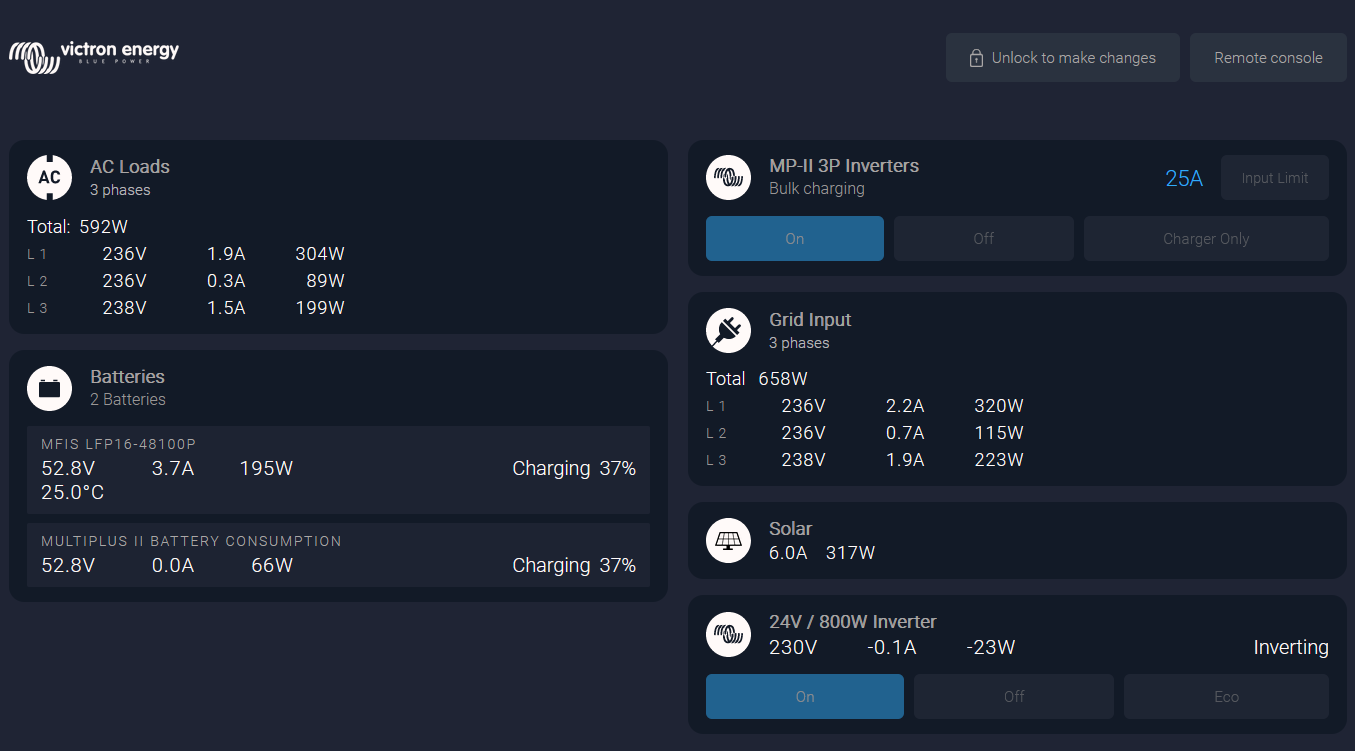
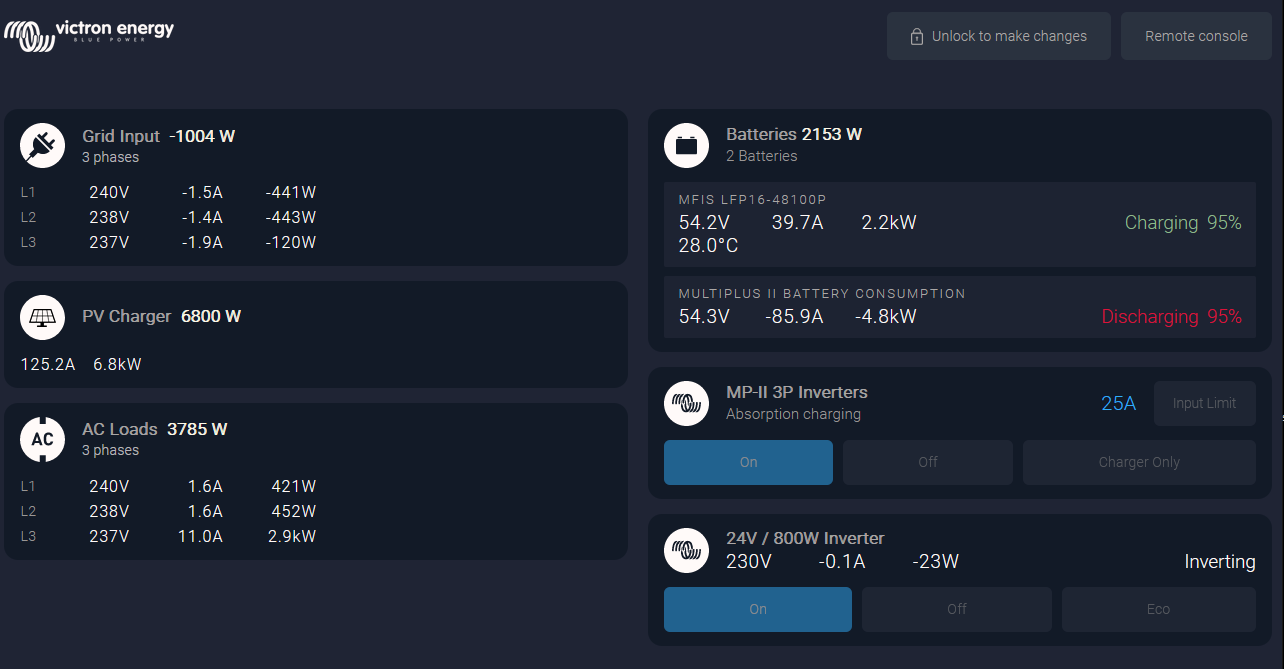
refactored phase totals into a new ListViewWithTotals component and expanded its use to all metrics view cards where appropriate, updated layout to more closely resemble how many of the other Victron UX's are laid out (and some naming changes as well), added colors for battery charge statuses (#2)

diff --git a/src/app/MarineApp/components/ActiveSource/ActiveSource.tsx b/src/app/MarineApp/components/ActiveSource/ActiveSource.tsx
@@ -1,11 +1,11 @@
 import React from "react"
 
-import { useActiveSource } from "@elninotech/mfd-modules"
+import { useActiveInValues, useActiveSource } from "@elninotech/mfd-modules"
 
 import ActiveInValues from "./ActiveInValues"
 import HeaderView from "../HeaderView/HeaderView"
 import ColumnContainer from "../ColumnContainer"
-import { ListView } from "../ListView"
+import { ListViewWithTotals } from "../ListViewWithTotals"
 import MetricValues from "../MetricValues"
 
 import { AC_SOURCE_TYPE } from "../../../utils/constants"
@@ -45,18 +45,28 @@ type ActiveSourceProps = {
   phases: number
   source: number
   active: boolean
+  power: number
 }
 
-const ActiveSource = ({ source, active, phases }: ActiveSourceProps) => {
+const ActiveSource = ({ source, active, phases, power }: ActiveSourceProps) => {
   const icon = activeSourceIcon[source]
   const title = activeSourceTitle[source] || "unknown"
   const subTitle = getSourceSubtitle(active, phases)
+
   return (
     <div className="metric metric__active-source">
       {phases > 1 ? (
-        <ListView icon={icon} title={<Translate value={`widgets.${title}`} />} subTitle={subTitle} child={true}>
-          {active && <ActiveInValues phases={phases} />}
-        </ListView>
+        <ColumnContainer>
+          <ListViewWithTotals
+            icon={icon}
+            title={<Translate value={`widgets.${title}`} />}
+            totals={power}
+            subTitle={subTitle}
+            child={true}
+          >
+            {active && <ActiveInValues phases={phases} />}
+          </ListViewWithTotals>
+        </ColumnContainer>
       ) : (
         <>
           <HeaderView icon={icon} title={translate(`widgets.${title}`)} subTitle={subTitle} child={true}>
@@ -74,6 +84,8 @@ const ActiveSource = ({ source, active, phases }: ActiveSourceProps) => {
 
 const ActiveSourceList = observer(() => {
   const { activeInput, phases, settings } = useActiveSource()
+  const { power } = useActiveInValues()
+  let phaseTotals = power.reduce((a, b) => a + b, 0)
 
   const visible = !!settings.some((item) => [AC_SOURCE_TYPE.GRID, AC_SOURCE_TYPE.SHORE].includes(item))
 
@@ -85,7 +97,7 @@ const ActiveSourceList = observer(() => {
         (source, i) =>
           [AC_SOURCE_TYPE.GRID, AC_SOURCE_TYPE.SHORE].includes(source) && (
             <ColumnContainer key={i}>
-              <ActiveSource source={source} phases={phases} active={activeInput === i} />
+              <ActiveSource source={source} phases={phases} active={activeInput === i} power={phaseTotals} />
             </ColumnContainer>
           )
       )}

diff --git a/src/app/MarineApp/components/AcLoads/AcLoads.tsx b/src/app/MarineApp/components/AcLoads/AcLoads.tsx
@@ -4,7 +4,7 @@ import HeaderView from "../HeaderView"
 import ColumnContainer from "../ColumnContainer"
 import MetricValues from "../MetricValues"
 import NumericValue from "../../../components/NumericValue"
-import { ListView, ListRow } from "../ListView"
+import { ListViewWithTotals, ListRow } from "../ListViewWithTotals"
 
 import AcIcon from "../../images/icons/ac.svg"
 import { translate, Translate } from "react-i18nify"
@@ -17,31 +17,29 @@ const AcLoads = observer(() => {
   const showAsList = phases > 1
 
   const isVisible = !!(current && voltage && power && phases)
+  let phaseTotals = power.reduce((a, b) => a + b, 0)
 
   useVisibilityNotifier({ widgetName: WIDGET_TYPES.AC_LOADS, visible: isVisible })
 
   if (isVisible) {
     return showAsList ? (
       <ColumnContainer>
-        <ListView
+        <ListViewWithTotals
           icon={AcIcon}
           title={<Translate value="widgets.acLoads" />}
+          totals={phaseTotals}
           subTitle={<Translate value="common.nrOfPhases" phases={phases} />}
           child={false}
         >
-          <MetricValues>
-            {translate("common.total")}: &nbsp;
-            <NumericValue value={power[0] + power[1] + power[2]} unit={"W"} />
-          </MetricValues>
           {voltage.slice(0, phases).map((v, i) => (
             <ListRow key={i}>
-              <span className="value value__phase">L {i + 1}</span>
+              <span className="value value__phase">L{i + 1}</span>
               <NumericValue value={v} unit="V" />
               <NumericValue value={current[i]} unit="A" precision={1} />
               <NumericValue value={power[i]} unit={"W"} />
             </ListRow>
           ))}
-        </ListView>
+        </ListViewWithTotals>
       </ColumnContainer>
     ) : (
       <ColumnContainer>

diff --git a/src/app/MarineApp/components/Solar/Solar.tsx b/src/app/MarineApp/components/Solar/Solar.tsx
@@ -1,6 +1,5 @@
 import React from "react"
 
-import HeaderView from "../HeaderView/HeaderView"
 import ColumnContainer from "../ColumnContainer"
 import MetricValues from "../MetricValues"
 import NumericValue from "../../../components/NumericValue"
@@ -11,6 +10,7 @@ import { observer } from "mobx-react"
 import { useVisibilityNotifier } from "app/MarineApp/modules"
 import { WIDGET_TYPES } from "app/MarineApp/utils/constants"
 import { translate } from "react-i18nify"
+import { ListViewWithTotals, ListRow } from "../ListViewWithTotals"
 
 const Solar = observer(() => {
   const { current, power } = usePvCharger()
@@ -21,12 +21,20 @@ const Solar = observer(() => {
   if (visible) {
     return (
       <ColumnContainer>
-        <HeaderView icon={SolarIcon} title={translate("widgets.solar")}>
-          <MetricValues>
-            <NumericValue value={current} unit="A" precision={1} />
-            <NumericValue value={power} unit="W" />
-          </MetricValues>
-        </HeaderView>
+        <ListViewWithTotals
+          icon={SolarIcon}
+          title={translate("widgets.solar")}
+          totals={power}
+          subTitle={false}
+          child={false}
+        >
+          <ListRow>
+            <MetricValues>
+              <NumericValue value={current} unit="A" precision={1} />
+              <NumericValue value={power} unit={"W"} />
+            </MetricValues>
+          </ListRow>
+        </ListViewWithTotals>
       </ColumnContainer>
     )
   } else {

diff --git a/src/app/MarineApp/components/ListViewWithTotals/ListViewWithTotals.tsx b/src/app/MarineApp/components/ListViewWithTotals/ListViewWithTotals.tsx
@@ -1,0 +1,36 @@
+import React from "react"
+import classnames from "classnames"
+
+import "./ListViewWithTotals.scss"
+
+type ListViewWithTotalsProps = {
+  child: boolean
+  icon: string
+  title: string | React.ReactNode
+  totals: number
+  subTitle: string | React.ReactNode
+}
+
+export const ListViewWithTotals: React.FunctionComponent<ListViewWithTotalsProps> = ({
+  child,
+  icon,
+  title,
+  totals,
+  subTitle,
+  children,
+}) => (
+  <div className={classnames({ metric: !child }, "list-view")}>
+    <div className="list-view__header">
+      <img src={icon} className="metric__icon" alt={"List View Icon"} />
+      <div className="metric__value-container">
+        <p className="text text--title text--bold">
+          {title} <span className="text text--title text--bold text--power--totals">{totals.toFixed()} W</span>
+        </p>
+        {subTitle && <span className="text text--smaller text--opaque">{subTitle}</span>}
+      </div>
+    </div>
+    {children && <div className="list-view__rows">{children}</div>}
+  </div>
+)
+
+export const ListRow: React.FunctionComponent<any> = ({ children }) => <div className="list-row">{children}</div>

diff --git a/src/app/MarineApp/components/Battery/BatteryLevel.tsx b/src/app/MarineApp/components/Battery/BatteryLevel.tsx
@@ -30,7 +30,7 @@ const batteryTimeToGoFormatter = (timeToGo: number) => {
     else if (hours) return `${hours} ${translate("common.hours")}`
     else if (minutes) return `${minutes} ${translate("common.minutes")}`
     // we are not interested in seconds, since it's an
-    // estimate anyways
+    // estimate anyway
   } else {
     return null
   }
@@ -50,8 +50,10 @@ export const BatteryLevel = observer(({ battery }: BatteryLevelProps) => {
   const showTimetoGo = battery.state === BATTERY_STATE.DISCHARGING && battery.timetogo
   const showSoc = battery.soc !== undefined && battery.soc !== null
 
+  let batteryLabelClass = typeof batteryStateLabel === "string" ? "-" + batteryStateLabel.toLowerCase() : "idle"
+
   return (
-    <div className="metrics__right battery-level">
+    <div className={"metrics__right battery-level" + batteryLabelClass}>
       {batteryStateLabel && (
         <span>
           <Translate data-test-id="batteryStatus" value={"common." + batteryStateLabel} />

diff --git a/src/app/MarineApp/components/ActiveSource/ActiveInValues.tsx b/src/app/MarineApp/components/ActiveSource/ActiveInValues.tsx
@@ -1,5 +1,4 @@
 import React from "react"
-import { translate } from "react-i18nify"
 
 import { useActiveInValues } from "@elninotech/mfd-modules"
 
@@ -13,13 +12,13 @@ type ActiveInValuesProps = {
 
 const ActiveInValues = observer(({ phases }: ActiveInValuesProps) => {
   const { current, voltage, power } = useActiveInValues()
+
   if (current && voltage && power && phases) {
     return phases > 1 ? (
       <div>
-        {translate("common.total")} &nbsp; {<NumericValue value={power[0] + power[1] + power[2]} unit={"W"} />}
         {voltage.slice(0, phases).map((v, i) => (
           <ListRow key={i}>
-            <span className="value value__phase">L {i + 1}</span>
+            <span className="value value__phase">L{i + 1}</span>
             <NumericValue value={v} unit="V" />
             <NumericValue value={current[i]} unit="A" precision={1} />
             <NumericValue value={power[i]} unit={"W"} />

diff --git a/src/app/MarineApp/components/Battery/Battery.tsx b/src/app/MarineApp/components/Battery/Battery.tsx
@@ -44,6 +44,7 @@ const Paginator = ({ setPage, currentPage, pages }: PaginatorProps) => {
     </div>
   )
 }
+
 type BatteryHeaderProps = {
   amount: number
   paginate: boolean
@@ -53,12 +54,15 @@ type BatteryHeaderProps = {
 }
 
 const BatteryHeader = ({ amount, paginate, setPage, currentPage, pageSize }: BatteryHeaderProps) => {
+  let primaryBatteryPower = useBattery().batteries[amount - amount].power
+
   return (
     <div className="battery-header">
       <img src={BatteryIcon} className="metric__icon" alt={"Battery Icon"} />
       <div className="battery-header__text">
         <p className="text--title">
           <Translate value={"widgets." + (amount > 1 ? "batteries" : "battery")} />
+          <span className="text--title text text--power--totals">{primaryBatteryPower} W</span>
         </p>
         <p className="text--subtitle">
           {amount > 1 && (

diff --git a/src/app/MarineApp/components/Views/Metrics.tsx b/src/app/MarineApp/components/Views/Metrics.tsx
@@ -115,7 +115,8 @@ export const Metrics = observer(
     return (
       <>
         <div className="metrics-container" ref={metricsRef} style={style}>
-          <DcLoads />
+          {!!instanceId && <ActiveSource />}
+          <Solar />
           {!!instanceId && <AcLoads />}
           <Battery />
           {!!instanceId && (
@@ -124,9 +125,8 @@ export const Metrics = observer(
               connected={isConnected}
             />
           )}
-          {!!instanceId && <ActiveSource />}
-          <Solar />
           <Chargers />
+          <DcLoads />
           <Inverters />
           <Generators />
           <NoWidgets />

diff --git a/src/app/MarineApp/components/ListViewWithTotals/ListViewWithTotals.scss b/src/app/MarineApp/components/ListViewWithTotals/ListViewWithTotals.scss
@@ -1,0 +1,28 @@
+@import "../../css/variables.scss";
+
+
+.list-view {
+  flex-direction: column;
+  align-items: flex-start;
+  flex-grow: 1;
+}
+
+.list-view__header {
+  display: flex;
+  align-items: center;
+}
+
+.list-view__rows {
+  margin-top: $metricHeaderMarginBottom;
+  display: flex;
+  flex-direction: column;
+}
+
+.list-row {
+  display: flex;
+  align-items: center;
+}
+
+.list-row:not(:first-child) {
+  margin-top: 5px;
+}

diff --git a/src/app/MarineApp/components/Battery/Battery.scss b/src/app/MarineApp/components/Battery/Battery.scss
@@ -123,8 +123,18 @@
   height: 1rem;
 }
 
-.battery-level {
+.battery-level-idle {
   display: flex;
+}
+
+.battery-level-charging {
+  display: flex;
+  color: darkseagreen;
+}
+
+.battery-level-discharging {
+  display: flex;
+  color: crimson;
 }
 
 .charge-indicator {

diff --git a/src/css/texts.scss b/src/css/texts.scss
@@ -99,6 +99,11 @@ html {
   padding-bottom: 2px;
 }
 
+.text--power--totals {
+  padding-left: 5px;
+  color: ivory;
+}
+
 .text--subtitle {
   font-size: 0.9rem;
   color: $color-gray;

diff --git a/src/app/MarineApp/components/ListViewWithTotals/index.js b/src/app/MarineApp/components/ListViewWithTotals/index.js
@@ -1,0 +1,1 @@
+export { ListViewWithTotals, ListRow } from "./ListViewWithTotals"
